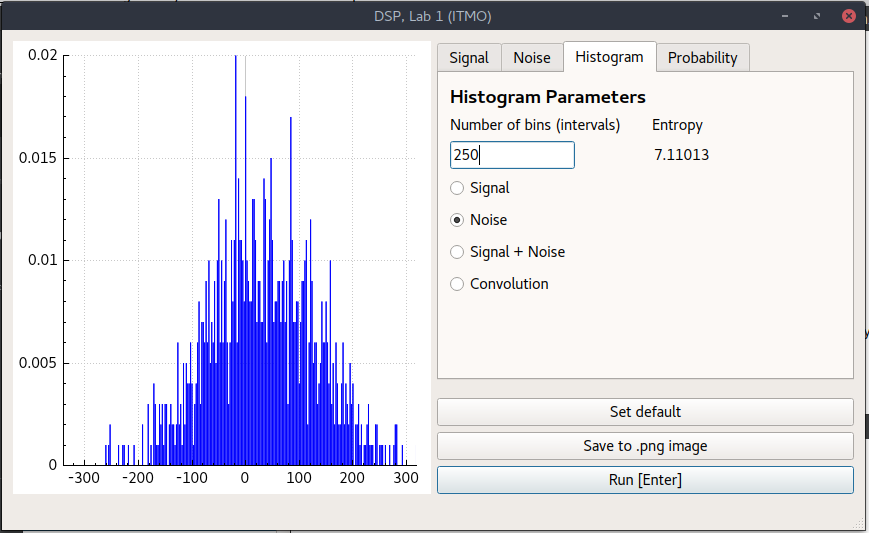
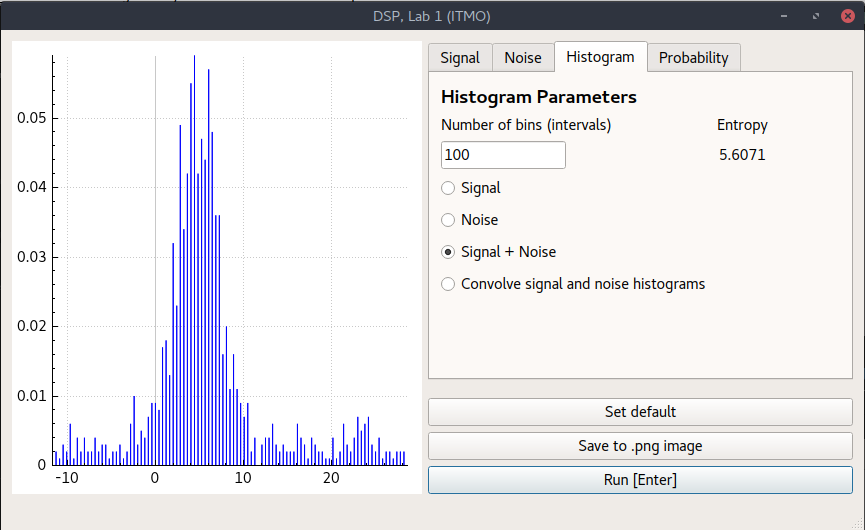
fix entropy; update screenshot

diff --git a/src/signal.cpp b/src/signal.cpp
@@ -191,7 +191,9 @@ double Signal::getEntropy() const {
     double entropy = 0;
 
     for (int i = 0; i < histogramYAxis.size(); ++i) {
-        entropy += histogramYAxis[i] * log2(histogramYAxis[i]);
+        if (histogramYAxis[i]) {
+            entropy += histogramYAxis[i] * log2(histogramYAxis[i]);
+        }
     }
 
     return ( -entropy );
